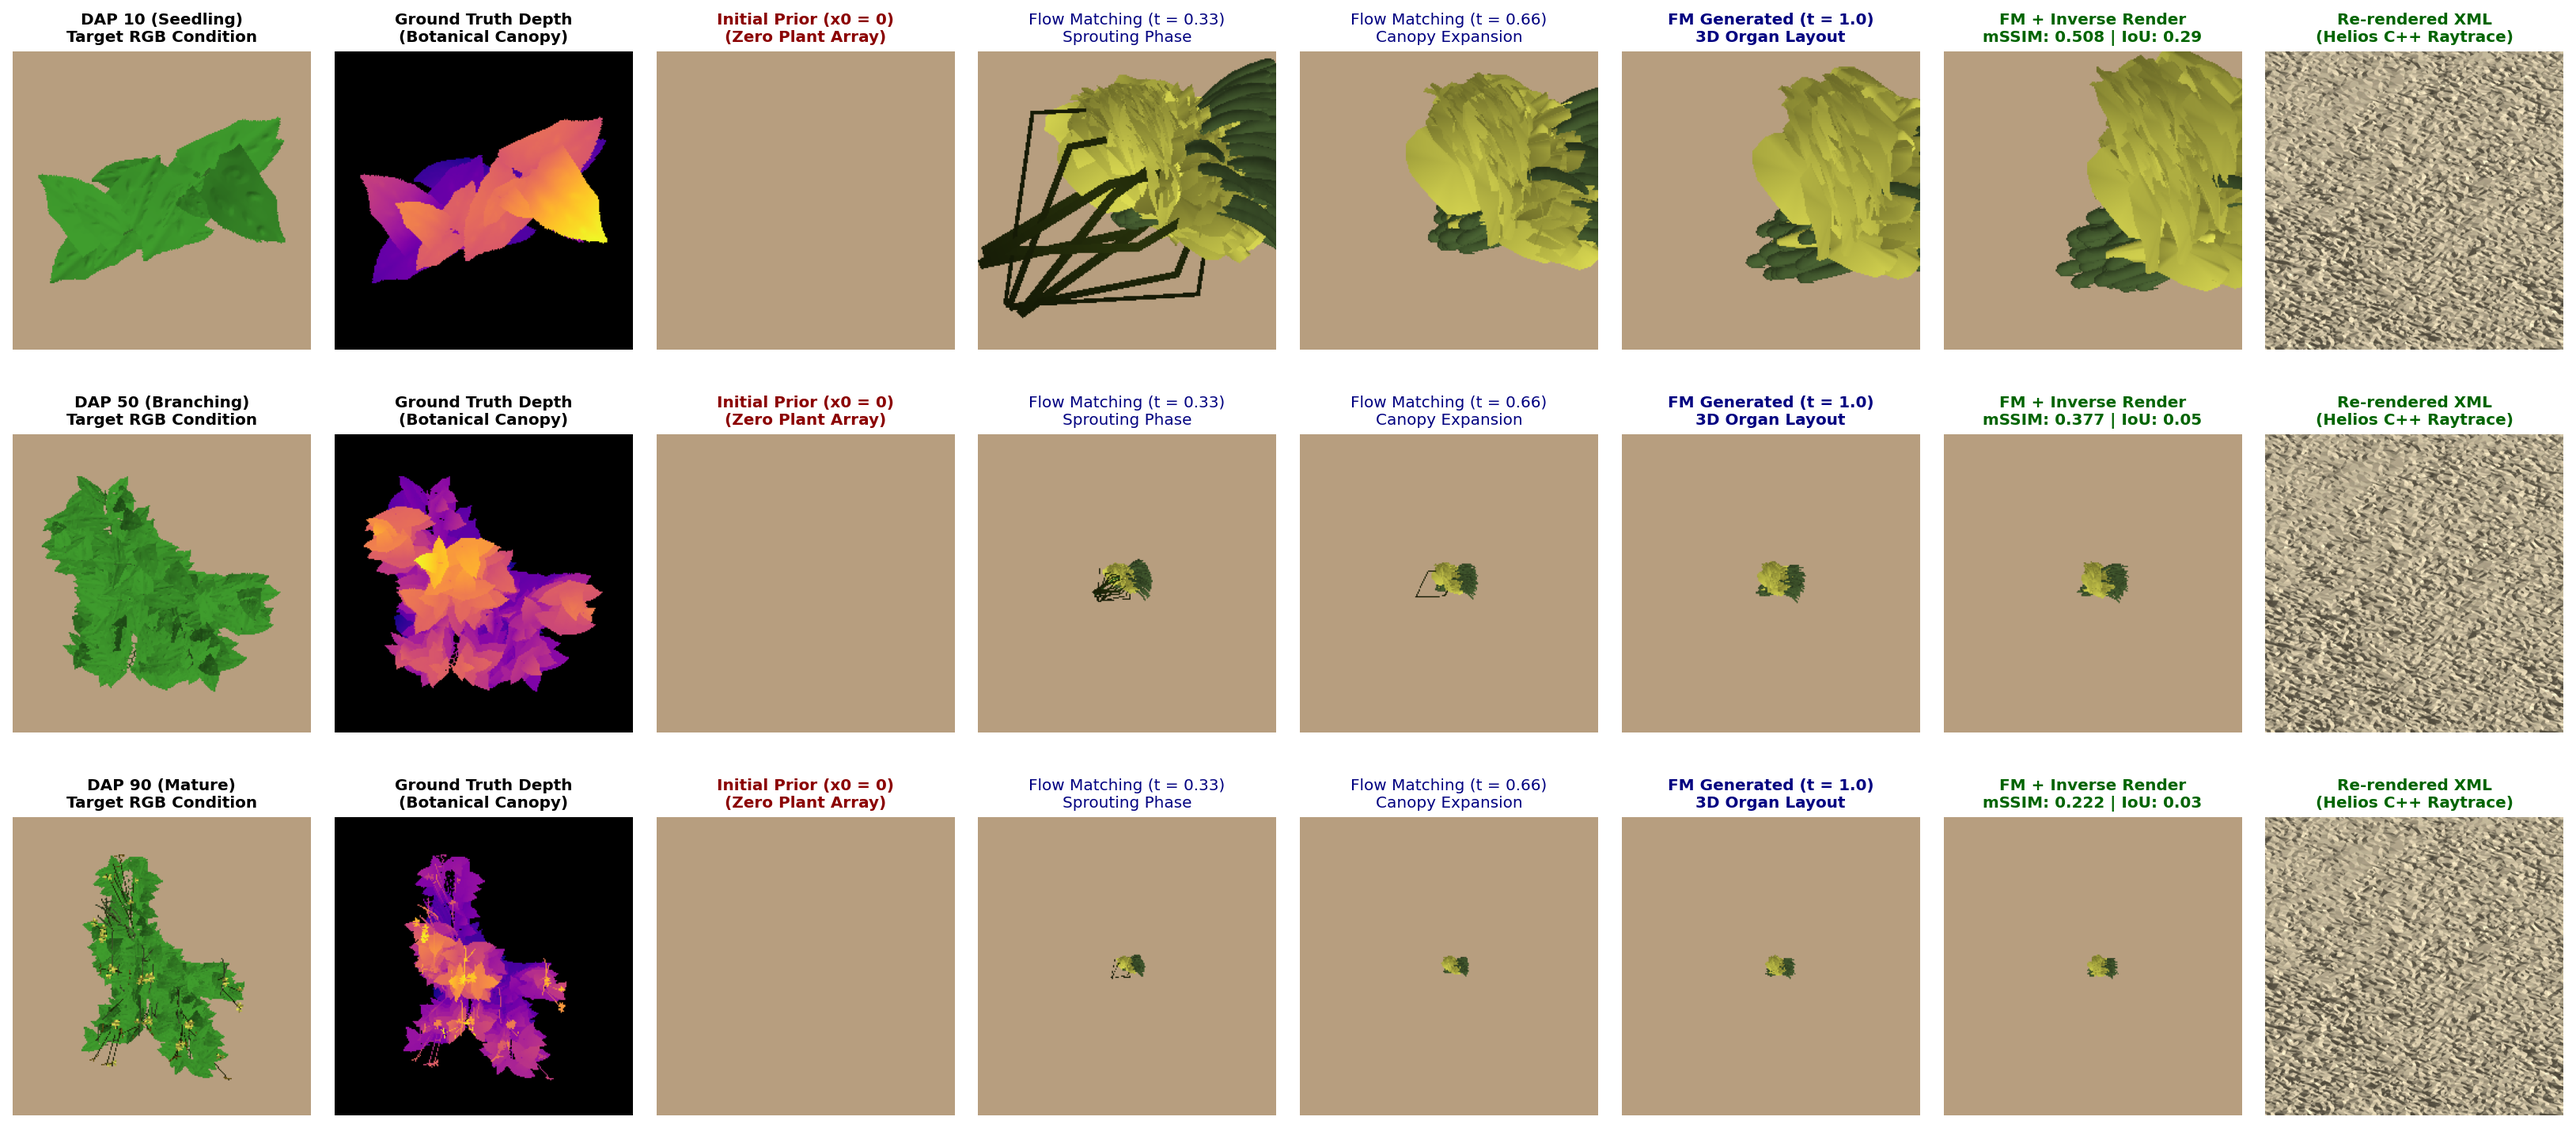
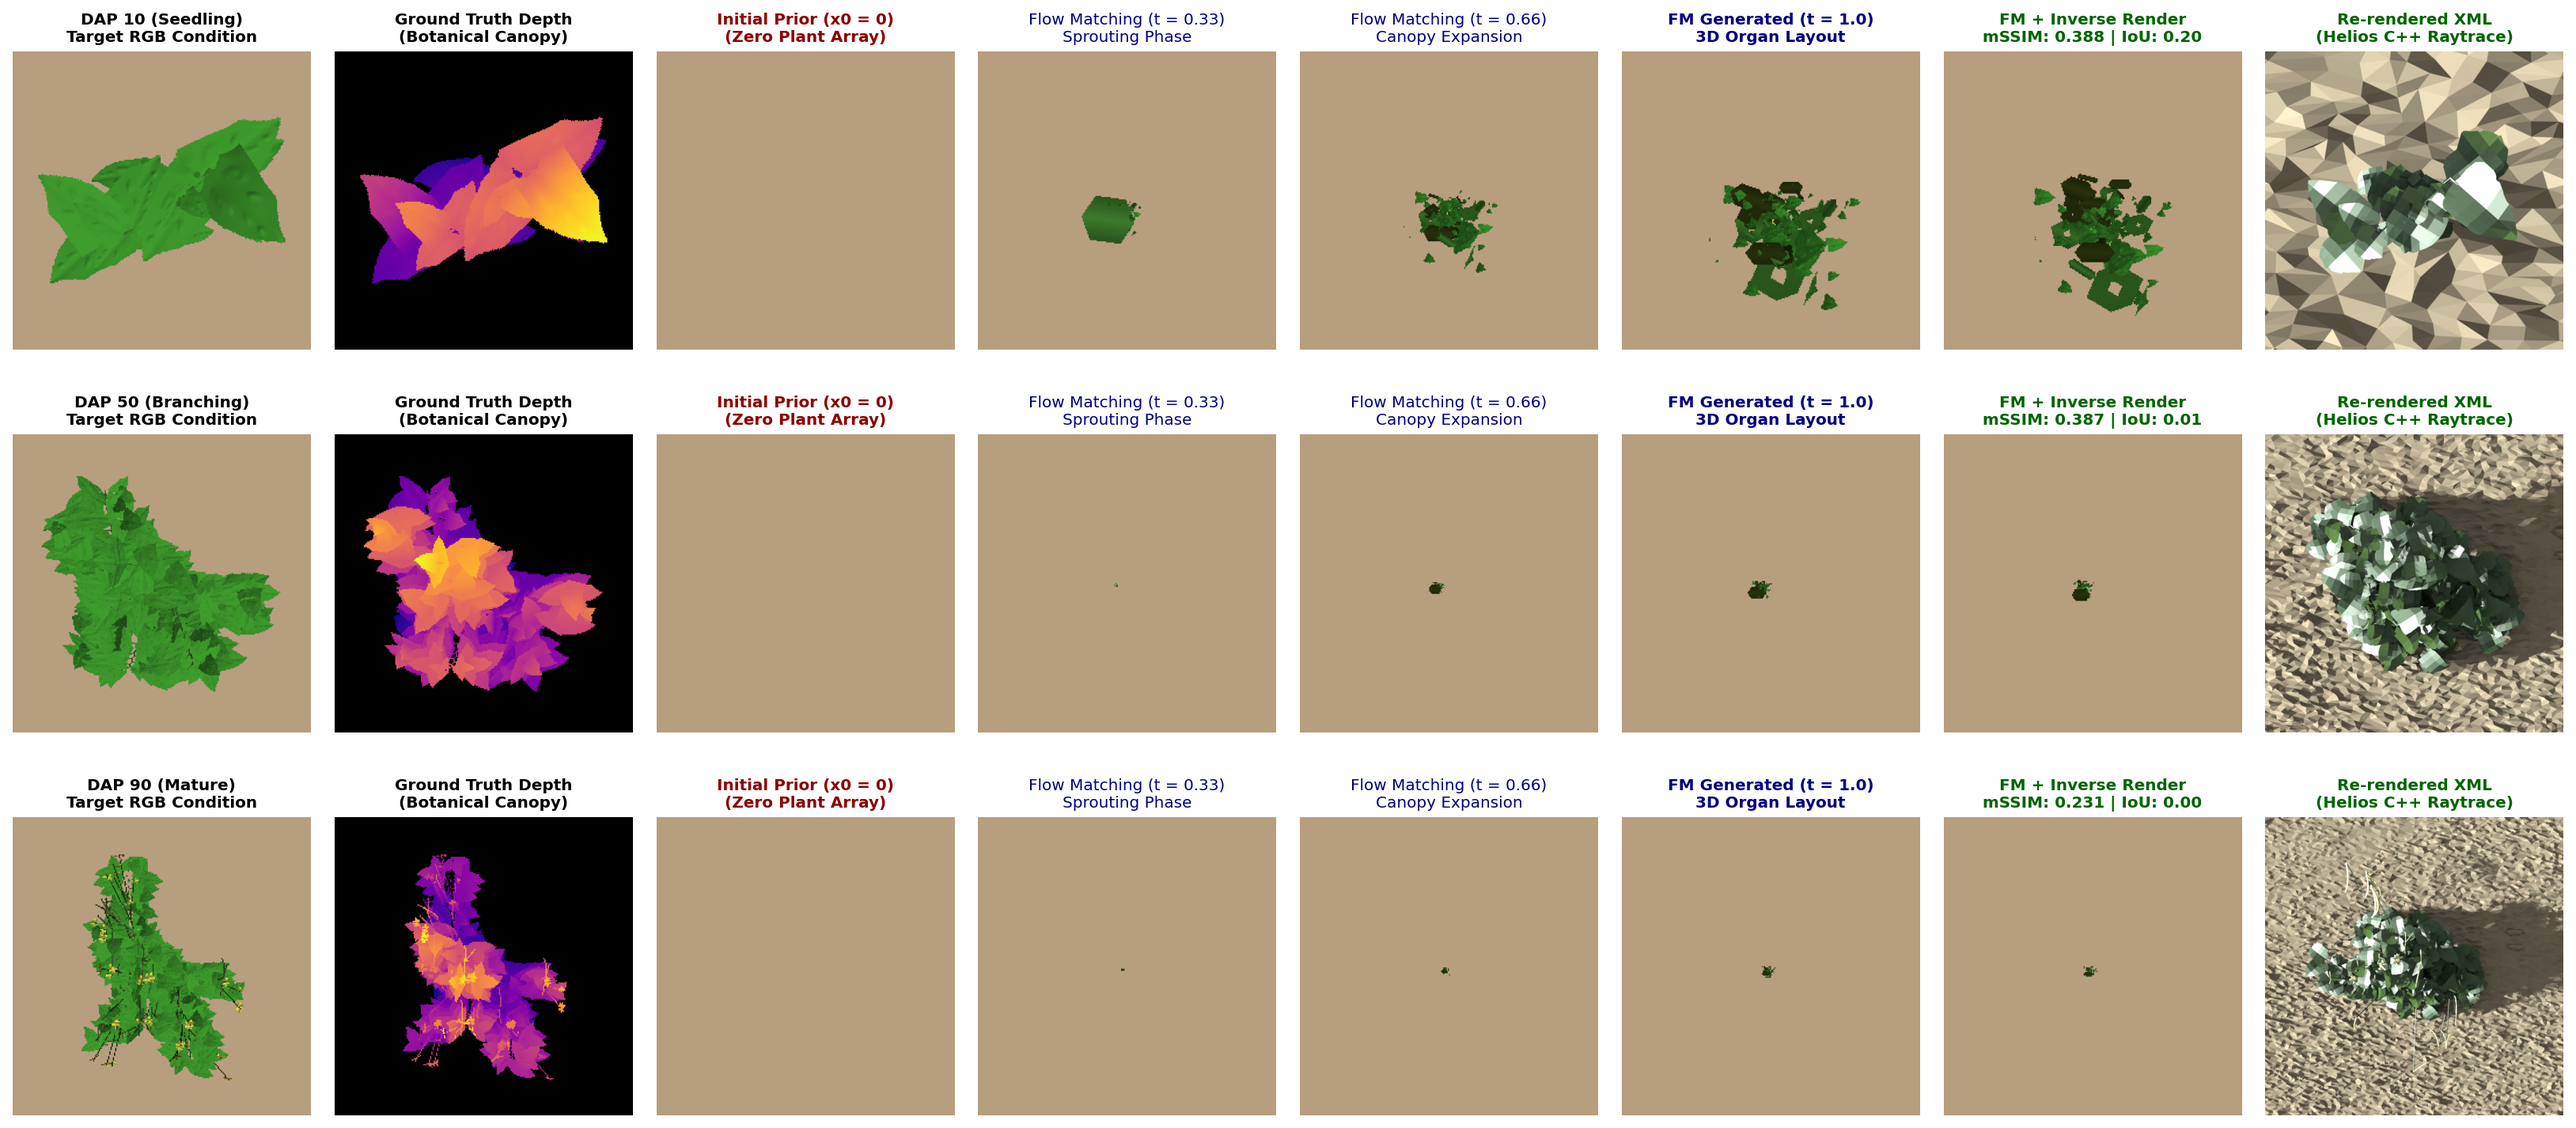
feat(flow-matching): improve zero-array flow matching training with balanced loss and 50 epochs

diff --git a/diffusion_based/training/train_part_flow_matching.py b/diffusion_based/training/train_part_flow_matching.py
@@ -26,7 +26,9 @@ if repo_root not in sys.path:
     sys.path.insert(0, repo_root)
 
 from diffusion_based.dataset.part_array_dataset import (
-    PartArrayDataset, FM_OT_END, EMPTY_IDX, FM_BASE_START, FM_NODE_DIM,
+    PartArrayDataset, FM_OT_END, EMPTY_IDX, FM_NODE_DIM,
+    FM_BASE_START, FM_BASE_END, FM_ROT_START, FM_ROT_END,
+    FM_SCALE_START, FM_SCALE_END,
 )
 from diffusion_based.models.part_flow_matching import PartFlowMatchingModel
 from diffusion_based.training.flow_matching import FlowMatchingScheduler
@@ -88,12 +90,20 @@ def train_epoch(
             # Category velocity loss (across all slots: learning active organ types vs empty)
             loss_cat = F.mse_loss(pred_velocity[:, :, :FM_OT_END], v_target[:, :, :FM_OT_END])
 
-            # Geometry velocity loss (masked to active organ slots: base, rot, scale, curv, phyllo)
+            # Geometry velocity losses (masked to active organ slots)
             active_mask = existence_mask.unsqueeze(-1).float()  # (B, N, 1)
-            diff_geom = (pred_velocity[:, :, FM_BASE_START:] - v_target[:, :, FM_BASE_START:]) ** 2
-            loss_geom = (diff_geom * active_mask).sum() / max(active_mask.sum() * (FM_NODE_DIM - FM_BASE_START), 1.0)
+            num_active = max(active_mask.sum(), 1.0)
 
-            loss = loss_cat + 2.0 * loss_geom
+            diff_base = (pred_velocity[:, :, FM_BASE_START:FM_BASE_END] - v_target[:, :, FM_BASE_START:FM_BASE_END]) ** 2
+            loss_base = (diff_base * active_mask).sum() / (num_active * 3.0)
+
+            diff_rot = (pred_velocity[:, :, FM_ROT_START:FM_ROT_END] - v_target[:, :, FM_ROT_START:FM_ROT_END]) ** 2
+            loss_rot = (diff_rot * active_mask).sum() / (num_active * 6.0)
+
+            diff_scale = (pred_velocity[:, :, FM_SCALE_START:FM_SCALE_END] - v_target[:, :, FM_SCALE_START:FM_SCALE_END]) ** 2
+            loss_scale = (diff_scale * active_mask).sum() / (num_active * 3.0)
+
+            loss = 2.0 * loss_cat + 1.0 * loss_base + 1.0 * loss_rot + 3.0 * loss_scale
 
         optimizer.zero_grad()
         loss.backward()
@@ -108,7 +118,7 @@ def train_epoch(
         count += B
 
         if (batch_idx + 1) % 25 == 0 or (batch_idx + 1) == num_batches:
-            print(f"  [Epoch {epoch:02d}] Step {batch_idx+1:03d}/{num_batches:03d} | Loss: {loss.item():.4f} (Cat: {loss_cat.item():.4f}, Geom: {loss_geom.item():.4f})", flush=True)
+            print(f"  [Epoch {epoch:02d}] Step {batch_idx+1:03d}/{num_batches:03d} | Loss: {loss.item():.4f} (Cat: {loss_cat.item():.4f}, Base: {loss_base.item():.4f}, Scale: {loss_scale.item():.4f})", flush=True)
 
     return {"loss": total_loss / max(count, 1), "global_step": global_step}
 

diff --git a/scripts/generate_fig_flow_matching_zero_init.py b/scripts/generate_fig_flow_matching_zero_init.py
@@ -220,8 +220,6 @@ def main():
         def _render_fm_state(fm_state_t):
             p = ds.decode_fm(fm_state_t[0])
             p_sharp = p.clone()
-            p_sharp[:, P_COL_SCALE_X:P_COL_SCALE_Z + 1] = p[:, P_COL_SCALE_X:P_COL_SCALE_Z + 1].clamp(0.005, 0.08)
-            p_sharp[:, P_COL_BASE_X:P_COL_BASE_Z + 1] = p[:, P_COL_BASE_X:P_COL_BASE_Z + 1].clamp(-0.15, 0.15)
             p_exist = p[:, P_COL_EXISTENCE].unsqueeze(-1)
             p_sharp[:, P_COL_EXISTENCE] = torch.where(p_exist > 0.45, torch.tensor(1.0, device=device), torch.tensor(0.0, device=device)).squeeze(-1)
             with torch.no_grad():
@@ -249,8 +247,8 @@ def main():
         ])
         for _ in range(25):
             optimizer.zero_grad()
-            eval_bases = (refined_part[:, P_COL_BASE_X:P_COL_BASE_Z + 1] + torch.tanh(opt_delta_base) * 0.03).clamp(-0.15, 0.15)
-            eval_scales = (refined_part[:, P_COL_SCALE_X:P_COL_SCALE_Z + 1] * torch.exp(opt_scale * 0.3)).clamp(0.005, 0.08)
+            eval_bases = refined_part[:, P_COL_BASE_X:P_COL_BASE_Z + 1] + torch.tanh(opt_delta_base) * 0.03
+            eval_scales = refined_part[:, P_COL_SCALE_X:P_COL_SCALE_Z + 1] * torch.exp(opt_scale * 0.3)
             p_eval = torch.cat([
                 refined_part[:, :P_COL_BASE_X],
                 eval_bases,
@@ -288,7 +286,9 @@ def main():
 
         # 4. Re-rendered XML using Helios C++
         # Extract organ hierarchy
-        nodes_spec = gt_arr.nodes if hasattr(gt_arr, "nodes") else []
+        from diffusion_based.models.helios_xml_parser import HeliosXMLParser
+        parser = HeliosXMLParser(xml_path)
+        nodes_spec = parser.get_all_organ_nodes()
         plant_age_str = "10" if "010" in dap_tag else ("50" if "050" in dap_tag else "90")
         xml_str = organ_nodes_to_xml(nodes_spec, base_position="0 0 0", plant_age=plant_age_str, plant_id="0")
         opt_xml_path = os.path.join(tmp_xml_dir, f"fm_{dap_tag}.xml")
